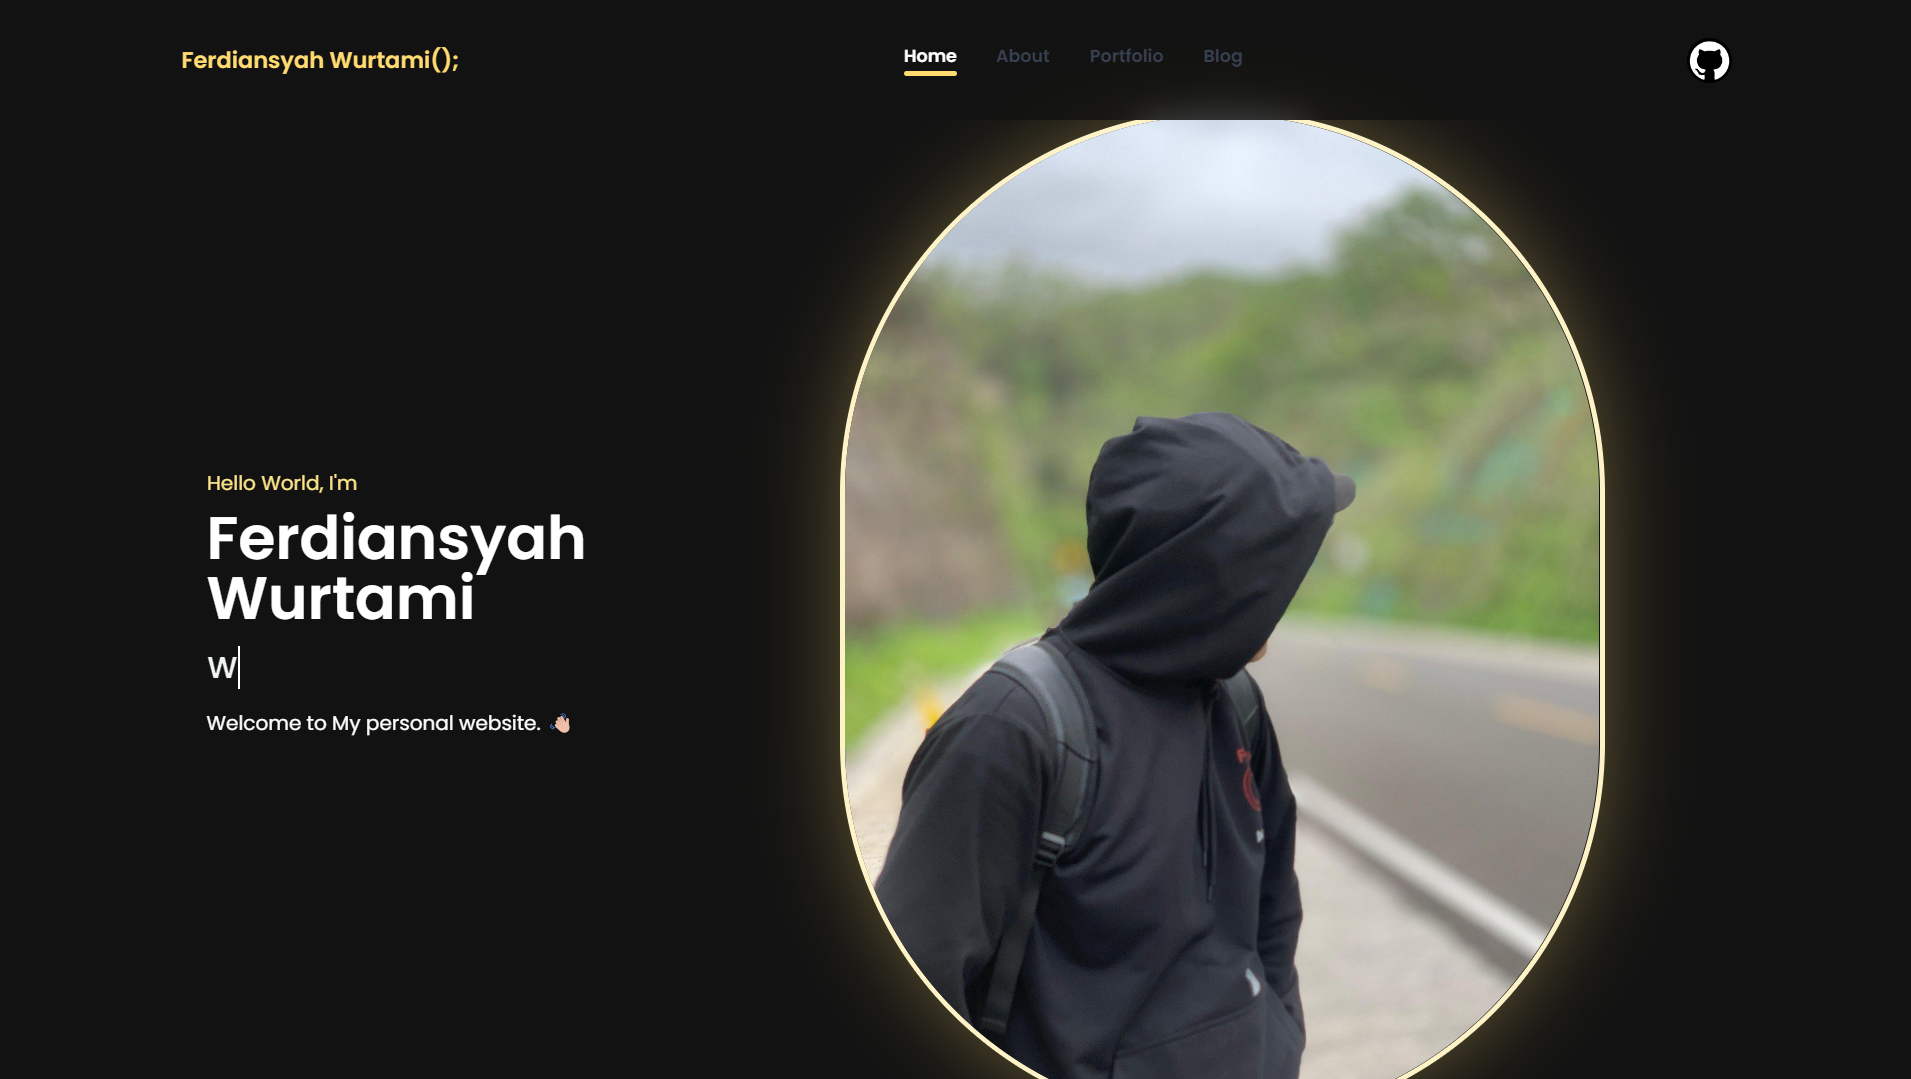
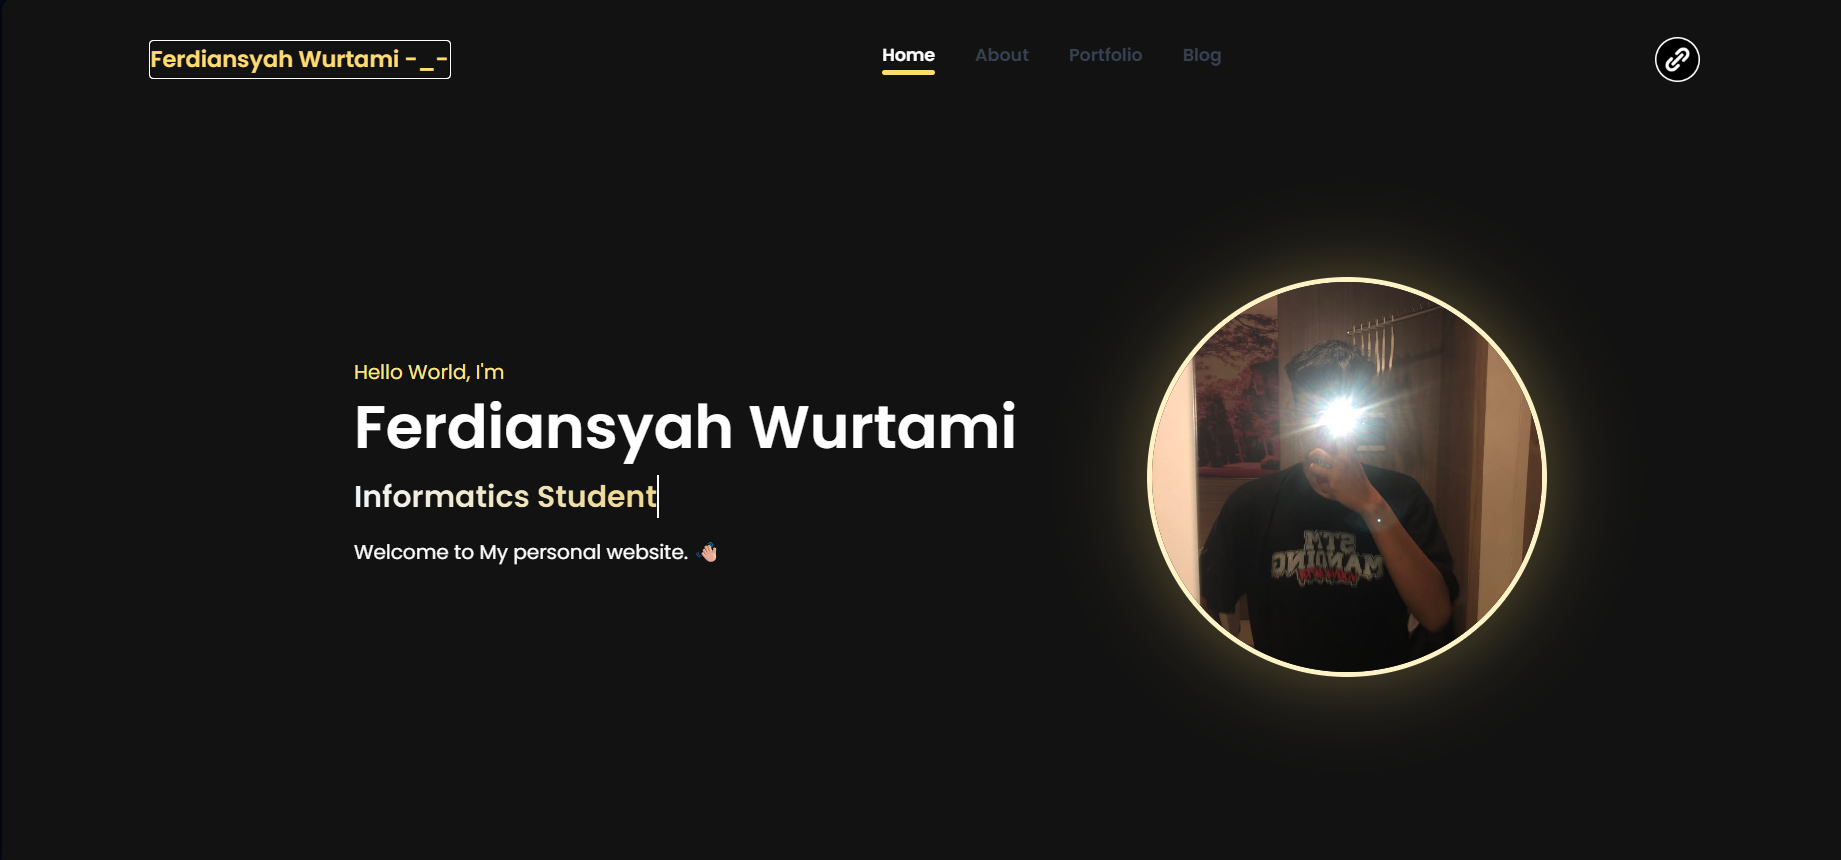
init

diff --git a/src/views/HomeView.vue b/src/views/HomeView.vue
@@ -24,8 +24,8 @@
           </path>
         </svg>Download Resume</button> -->
     </div>
-    <div class="flex justify-center md:justify-start fadein-right"><img alt="avatar" fetchpriority="high" width="280" height="150" decoding="async" data-nimg="1"
-        class="w-10/12 md:h-auto rounded-full border-4 border-amber-100 pict" src="https://i.ibb.co.com/V0Vt1RPp/Whats-App-Image-2025-07-17-at-00-26-26-ae995226.jpg">
+    <div class="flex justify-center md:justify-start fadein-right"><img alt="avatar" fetchpriority="high" width="280" height="280" decoding="async" data-nimg="1"
+        class="w-64 h-64 md:w-80 md:h-80 object-cover rounded-full border-4 border-amber-100 pict" src="https://i.pinimg.com/736x/aa/df/1a/aadf1a48121fef99908b96aadf198a5a.jpg">
     </div>
   </main>
 </template>

diff --git a/src/views/AboutView.vue b/src/views/AboutView.vue
@@ -123,8 +123,8 @@ export default {
       <section
         class="text-sm md:text-lg text-justify flex flex-col gap-4 md:flex-row md:gap-8 md:justify-left md:items-center">
         <div class="flex justify-center">
-          <img class="w-9/12 rounded-full mb-3 fadein-up"
-            src="https://i.pinimg.com/564x/e7/8b/aa/e78baa3a73280bbedf3f87da6938c716.jpg" alt="Foto">
+          <img class="w-48 h-48 md:w-64 md:h-64 object-cover rounded-full mb-3 fadein-up"
+            src="https://i.pinimg.com/736x/f6/19/86/f61986a60cbb22e0ce44b51f767fef81.jpg" alt="Foto">
         </div>
         <div class="md:w-7/12">
           <p class="mb-3 md:mb-7 fadein-left fadeins-1">
